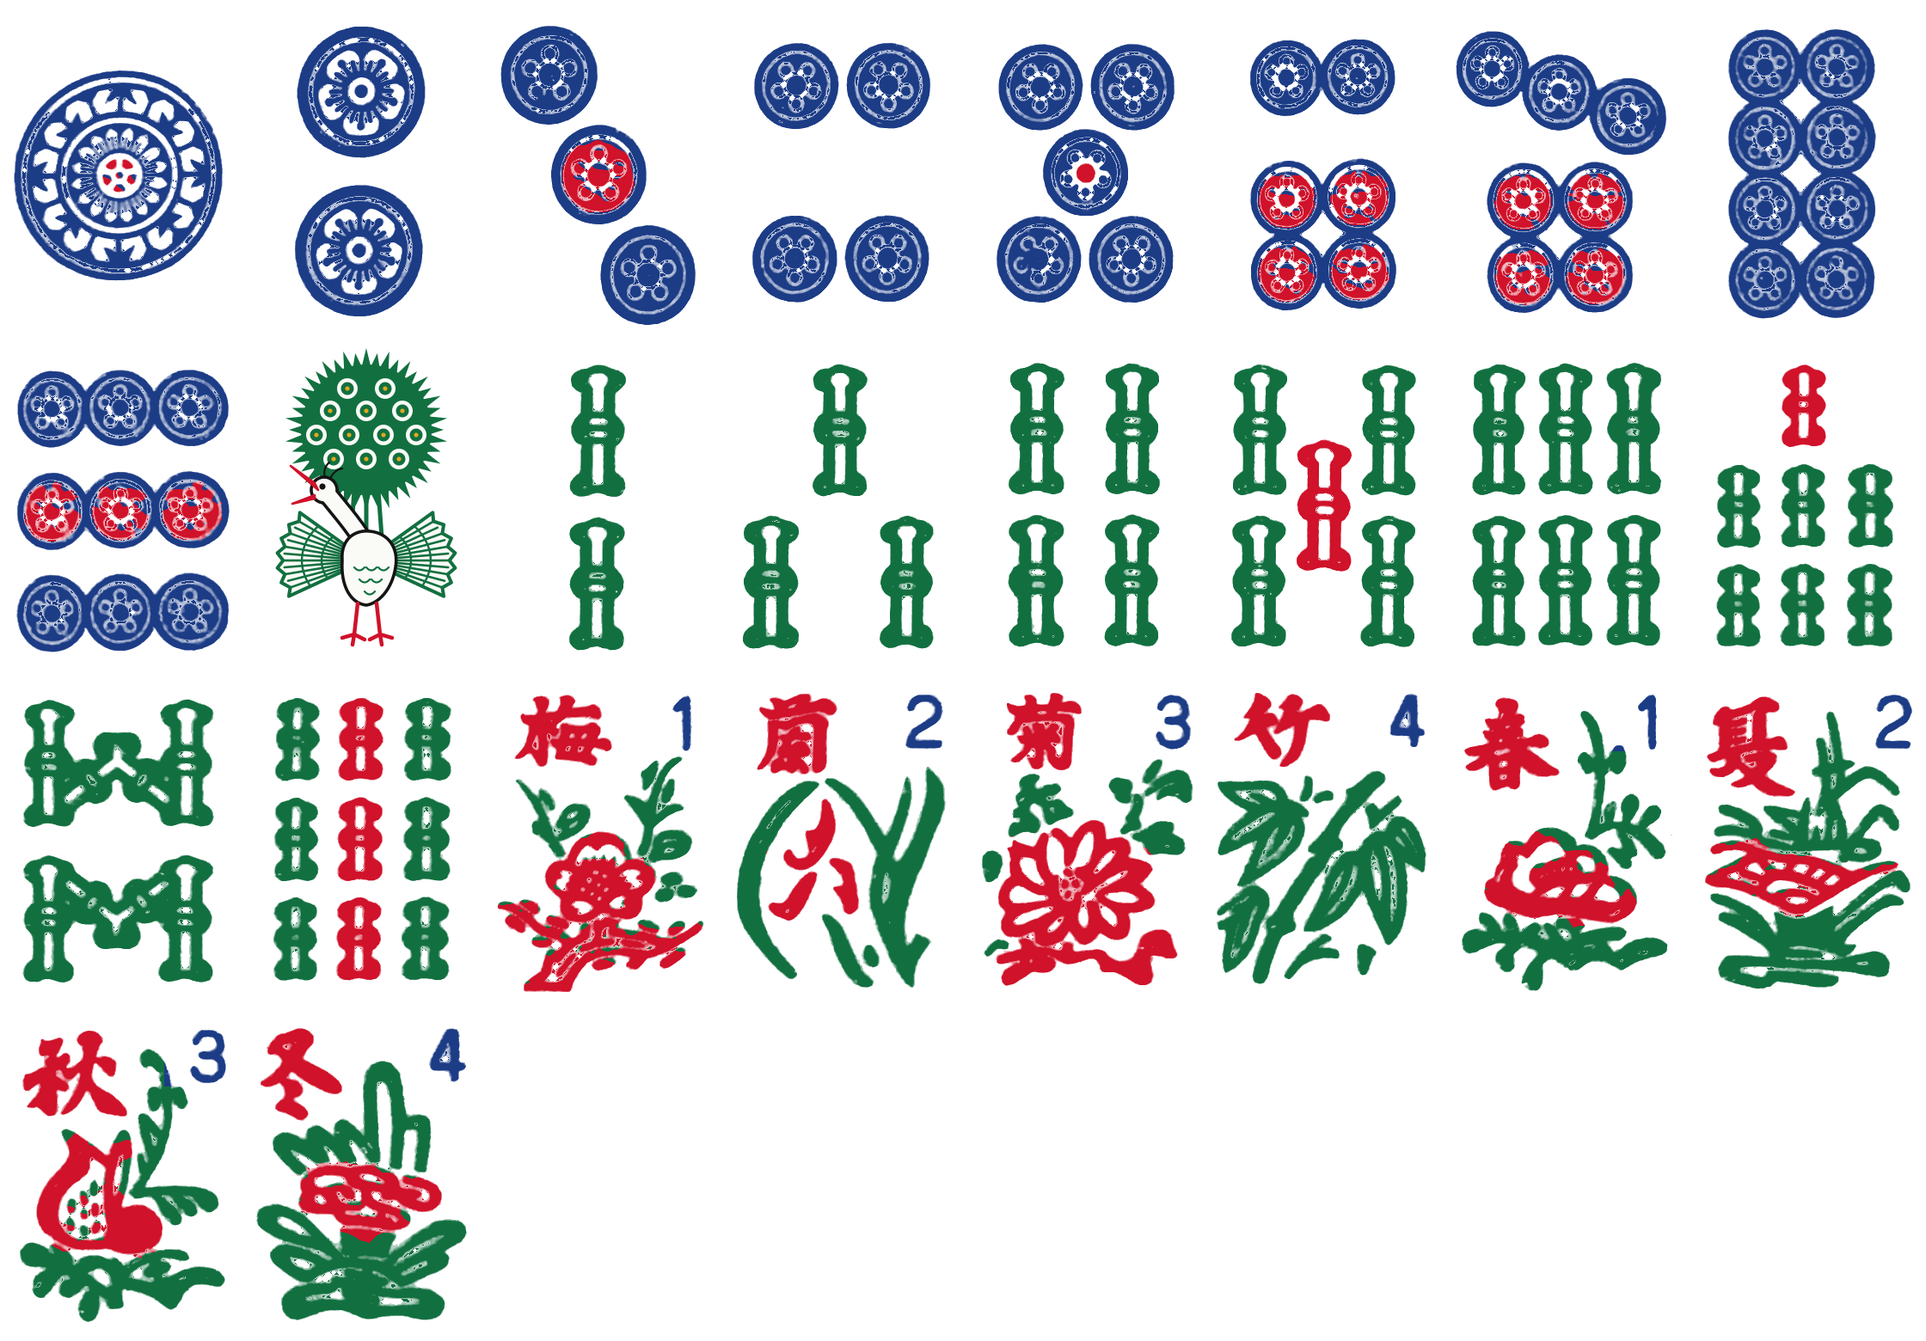
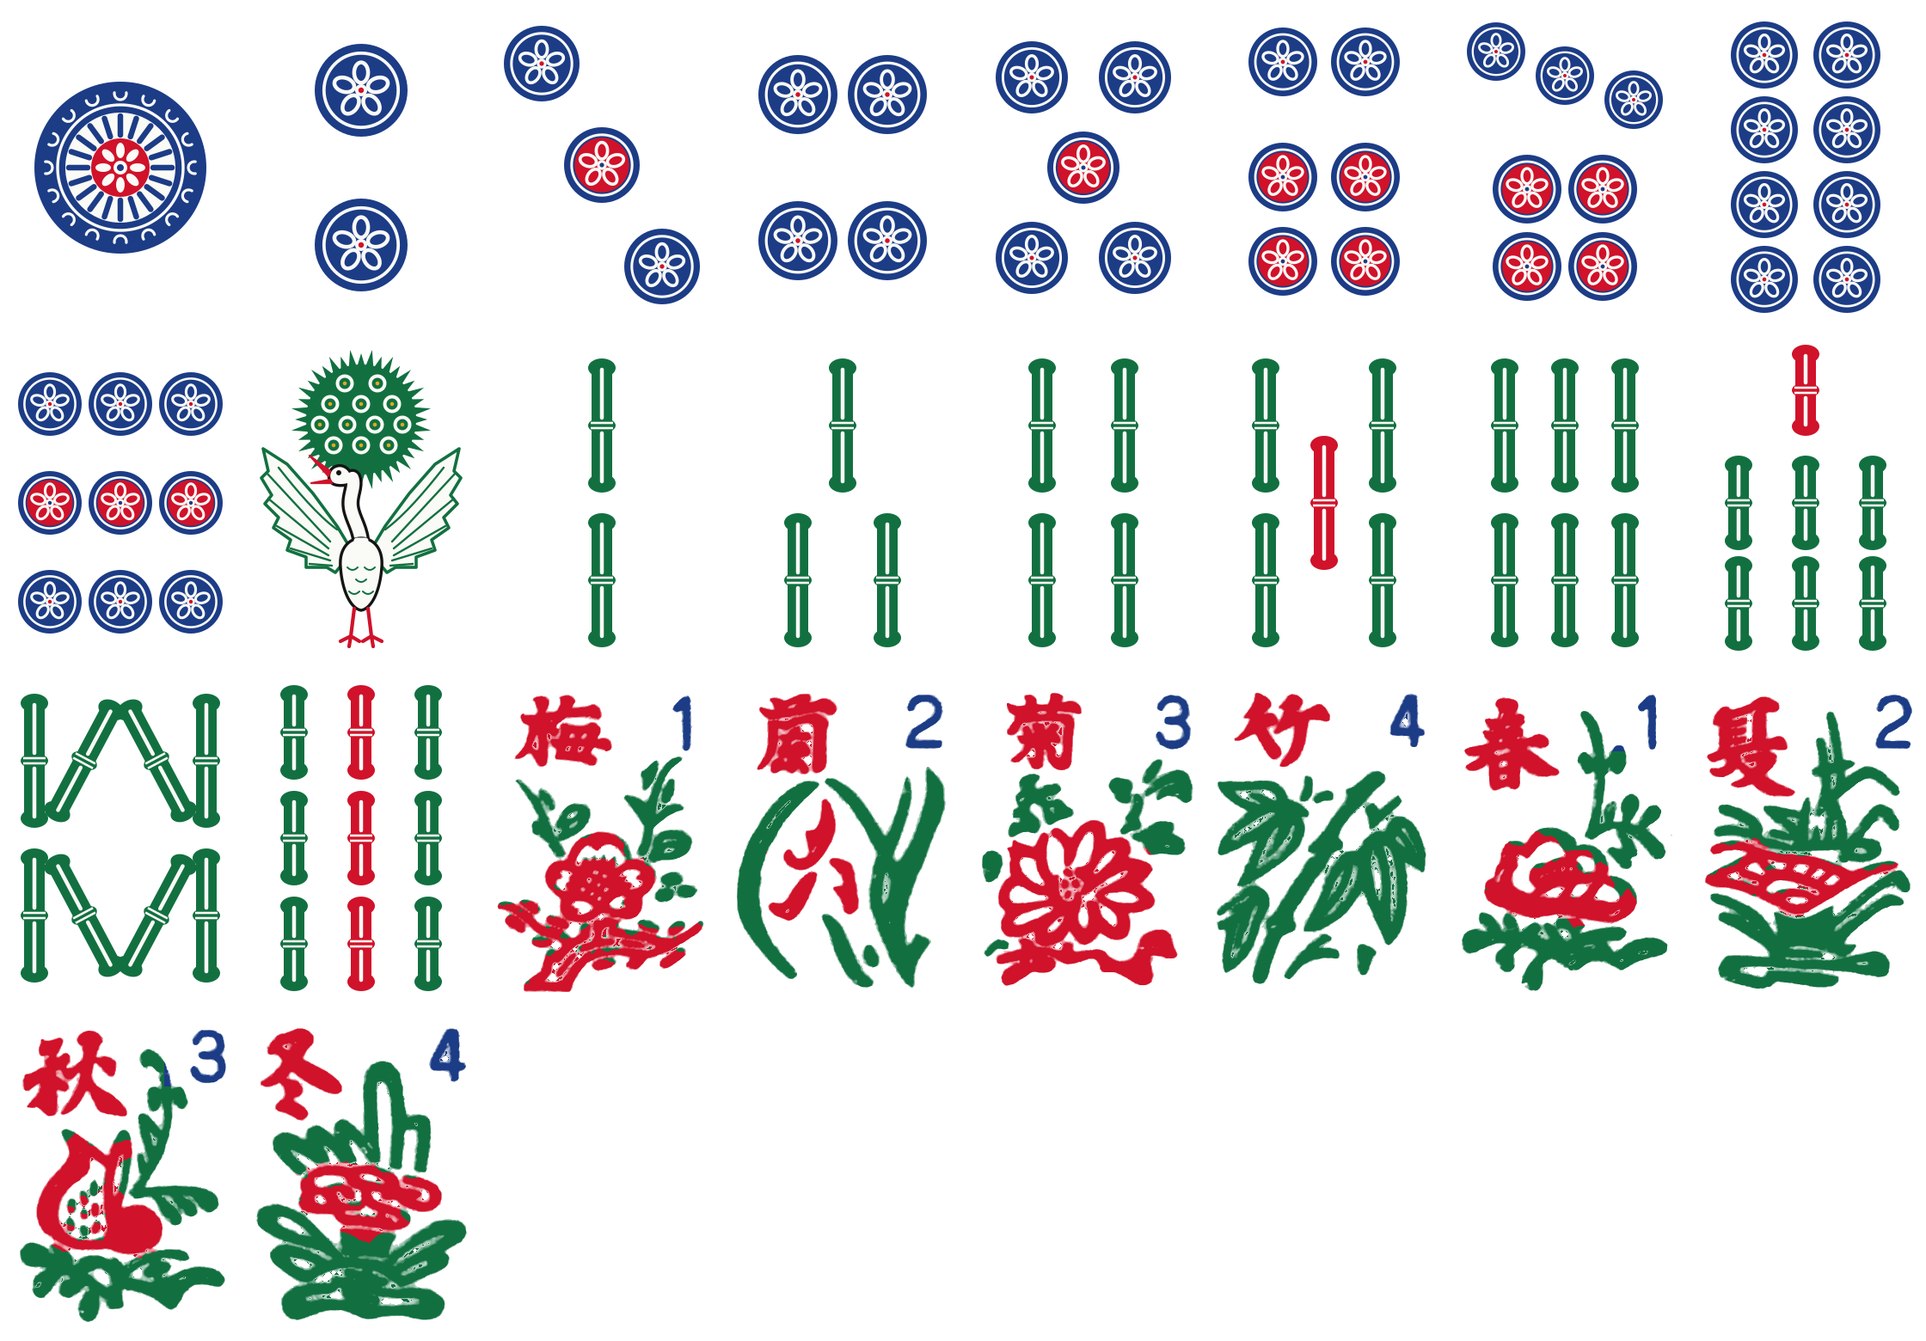
一索を白鳥のような姿勢に、筒子・索子をベクターで清書、麻雀の牌の背の模様をさらに控えめに
Claude-Session: https://claude.ai/code/session_01EiWRAVZja6zGai8iStWuh2

diff --git a/atlas/lazy.js b/atlas/lazy.js
@@ -5,7 +5,7 @@
      AtlasLazy.has3D(id) / hasPlay(id) / hasRules(id) — known before loading; AtlasLazy.loaded(id) */
 (function () {
 'use strict';
-const G = {"reversi": ["games/reversi.js?v=53", "rules/reversi.js?v=14"], "shogi": ["models/shogi.js?v=101", "games/shogi-play.js?v=42", "games/shogi.js?v=16", "rules/shogi.js?v=21"], "chess": ["models/chess.js?v=16", "games/chess.js?v=18", "rules/chess.js?v=7"], "backgammon": ["models/backgammon.js?v=121", "games/backgammon.js?v=23", "rules/backgammon.js?v=11"], "gomoku": ["models/goban.js?v=15", "games/gomoku.js?v=15", "rules/gomoku.js?v=9"], "go": ["models/goban.js?v=15", "games/go.js?v=9", "rules/go.js?v=7"], "hex": ["models/goban.js?v=15", "models/hex.js?v=2", "games/hex.js?v=6", "rules/hex.js?v=6"], "tafl": ["games/tafl.js?v=15", "rules/tafl.js?v=7"], "xiangqi": ["models/xiangqi.js?v=4", "games/xiangqi.js?v=14", "rules/xiangqi.js?v=6"], "janggi": ["models/xiangqi.js?v=4", "models/janggi.js?v=3", "games/janggi.js?v=6", "rules/janggi.js?v=2"], "checkers": ["models/checkers.js?v=17", "games/checkers.js?v=8", "rules/checkers.js?v=4"], "ugolki": ["models/checkers.js?v=17", "models/ugolki.js?v=4", "games/ugolki.js?v=11", "rules/ugolki.js?v=8"], "morris": ["models/morris.js?v=7", "games/morris-pieces.js?v=2", "games/morris.js?v=7", "rules/morris.js?v=5"], "connect4": ["models/connect4.js?v=5", "games/connect4-tiles.js?v=1", "games/connect4.js?v=5", "rules/connect4.js?v=3"], "mancala": ["models/mancala.js?v=5", "games/mancala.js?v=10", "rules/mancala.js?v=4"], "dots": ["models/dots.js?v=4", "games/dots.js?v=9", "rules/dots.js?v=3"], "ur": ["models/ur-dice.js?v=2", "models/ur.js?v=5", "games/ur-kit.js?v=15", "games/ur.js?v=11", "rules/ur.js?v=16"], "fanorona": ["models/fanorona.js?v=4", "games/fanorona.js?v=6", "rules/fanorona.js?v=8"], "konane": ["models/konane.js?v=7", "games/konane.js?v=13", "rules/konane.js?v=5"], "amazons": ["models/amazons.js?v=7", "games/amazons.js?v=10", "rules/amazons.js?v=5"], "senet": ["models/ur-dice.js?v=2", "models/senet.js?v=10", "games/senet-kit.js?v=5", "games/senet.js?v=16", "rules/senet.js?v=8"], "agon": ["models/agon.js?v=4", "games/agon.js?v=12", "rules/agon.js?v=5"], "alquerque": ["models/alquerque.js?v=3", "rules/alquerque.js?v=6"], "ludo": ["../ludo/engine.js?v=3", "../ludo/house.js?v=7", "../ludo/board2d.js?v=7", "../ludo/board-art.js?v=3", "models/ludo.js?v=10", "games/ludo.js?v=28", "rules/ludo.js?v=3"], "carrom": ["../carrom/engine.js?v=7", "models/carrom.js?v=18", "games/carrom.js?v=38", "rules/carrom.js?v=8"], "crokinole": ["../carrom/engine.js?v=7", "games/carrom.js?v=38", "../crokinole/engine.js?v=4", "models/crokinole.js?v=13", "games/crokinole.js?v=15", "rules/crokinole.js?v=4"], "hockey": ["../hockey/engine.js?v=15", "models/hockey.js?v=8", "games/hockey.js?v=30", "rules/hockey.js?v=7"], "shanghai": ["games/shanghai-core.js?v=1", "games/shanghai-i18n.js?v=1", "models/shanghai.js?v=11", "games/shanghai.js?v=2"], "peg": ["../peg/engine.js?v=1", "../peg/i18n.js?v=7", "models/peg.js?v=21", "games/peg.js?v=4", "rules/peg.js?v=4"]};
+const G = {"reversi": ["games/reversi.js?v=53", "rules/reversi.js?v=14"], "shogi": ["models/shogi.js?v=101", "games/shogi-play.js?v=42", "games/shogi.js?v=16", "rules/shogi.js?v=21"], "chess": ["models/chess.js?v=16", "games/chess.js?v=18", "rules/chess.js?v=7"], "backgammon": ["models/backgammon.js?v=121", "games/backgammon.js?v=23", "rules/backgammon.js?v=11"], "gomoku": ["models/goban.js?v=15", "games/gomoku.js?v=15", "rules/gomoku.js?v=9"], "go": ["models/goban.js?v=15", "games/go.js?v=9", "rules/go.js?v=7"], "hex": ["models/goban.js?v=15", "models/hex.js?v=2", "games/hex.js?v=6", "rules/hex.js?v=6"], "tafl": ["games/tafl.js?v=15", "rules/tafl.js?v=7"], "xiangqi": ["models/xiangqi.js?v=4", "games/xiangqi.js?v=14", "rules/xiangqi.js?v=6"], "janggi": ["models/xiangqi.js?v=4", "models/janggi.js?v=3", "games/janggi.js?v=6", "rules/janggi.js?v=2"], "checkers": ["models/checkers.js?v=17", "games/checkers.js?v=8", "rules/checkers.js?v=4"], "ugolki": ["models/checkers.js?v=17", "models/ugolki.js?v=4", "games/ugolki.js?v=11", "rules/ugolki.js?v=8"], "morris": ["models/morris.js?v=7", "games/morris-pieces.js?v=2", "games/morris.js?v=7", "rules/morris.js?v=5"], "connect4": ["models/connect4.js?v=5", "games/connect4-tiles.js?v=1", "games/connect4.js?v=5", "rules/connect4.js?v=3"], "mancala": ["models/mancala.js?v=5", "games/mancala.js?v=10", "rules/mancala.js?v=4"], "dots": ["models/dots.js?v=4", "games/dots.js?v=9", "rules/dots.js?v=3"], "ur": ["models/ur-dice.js?v=2", "models/ur.js?v=5", "games/ur-kit.js?v=15", "games/ur.js?v=11", "rules/ur.js?v=16"], "fanorona": ["models/fanorona.js?v=4", "games/fanorona.js?v=6", "rules/fanorona.js?v=8"], "konane": ["models/konane.js?v=7", "games/konane.js?v=13", "rules/konane.js?v=5"], "amazons": ["models/amazons.js?v=7", "games/amazons.js?v=10", "rules/amazons.js?v=5"], "senet": ["models/ur-dice.js?v=2", "models/senet.js?v=10", "games/senet-kit.js?v=5", "games/senet.js?v=16", "rules/senet.js?v=8"], "agon": ["models/agon.js?v=4", "games/agon.js?v=12", "rules/agon.js?v=5"], "alquerque": ["models/alquerque.js?v=3", "rules/alquerque.js?v=6"], "ludo": ["../ludo/engine.js?v=3", "../ludo/house.js?v=7", "../ludo/board2d.js?v=7", "../ludo/board-art.js?v=3", "models/ludo.js?v=10", "games/ludo.js?v=28", "rules/ludo.js?v=3"], "carrom": ["../carrom/engine.js?v=7", "models/carrom.js?v=18", "games/carrom.js?v=38", "rules/carrom.js?v=8"], "crokinole": ["../carrom/engine.js?v=7", "games/carrom.js?v=38", "../crokinole/engine.js?v=4", "models/crokinole.js?v=13", "games/crokinole.js?v=15", "rules/crokinole.js?v=4"], "hockey": ["../hockey/engine.js?v=15", "models/hockey.js?v=8", "games/hockey.js?v=30", "rules/hockey.js?v=7"], "shanghai": ["games/shanghai-core.js?v=1", "games/shanghai-i18n.js?v=1", "models/shanghai.js?v=12", "games/shanghai.js?v=2"], "peg": ["../peg/engine.js?v=1", "../peg/i18n.js?v=7", "models/peg.js?v=21", "games/peg.js?v=4", "rules/peg.js?v=4"]};
 const F = {"reversi": {"t3": true, "play": true, "rules": true}, "shogi": {"t3": true, "play": true, "rules": true}, "chess": {"t3": true, "play": true, "rules": true}, "backgammon": {"t3": true, "play": true, "rules": true}, "gomoku": {"t3": true, "play": true, "rules": true}, "go": {"t3": true, "play": true, "rules": true}, "hex": {"t3": true, "play": true, "rules": true}, "tafl": {"t3": true, "play": true, "rules": true}, "xiangqi": {"t3": true, "play": true, "rules": true}, "janggi": {"t3": true, "play": true, "rules": true}, "checkers": {"t3": true, "play": true, "rules": true}, "ugolki": {"t3": true, "play": true, "rules": true}, "morris": {"t3": true, "play": true, "rules": true}, "connect4": {"t3": true, "play": true, "rules": true}, "mancala": {"t3": true, "play": true, "rules": true}, "dots": {"t3": true, "play": true, "rules": true}, "ur": {"t3": true, "play": true, "rules": true}, "fanorona": {"t3": true, "play": true, "rules": true}, "konane": {"t3": true, "play": true, "rules": true}, "amazons": {"t3": true, "play": true, "rules": true}, "senet": {"t3": true, "play": true, "rules": true}, "agon": {"t3": true, "play": true, "rules": true}, "alquerque": {"t3": true, "play": false, "rules": true}, "ludo": {"t3": true, "play": true, "rules": true}, "carrom": {"t3": true, "play": true, "rules": true}, "crokinole": {"t3": true, "play": true, "rules": true}, "hockey": {"t3": true, "play": true, "rules": true}, "peg": {"t3": true, "play": true, "rules": true}, "shanghai": {"t3": true, "play": true, "rules": false}};
 const done = new Set(), loading = new Map(), ok = new Set();
 function load(src) {

diff --git a/mahjong/table3d.js b/mahjong/table3d.js
@@ -11,11 +11,10 @@ function stoneTex() {
   let seed = 7; const R = () => (seed = (seed * 16807) % 2147483647) / 2147483647;
   const base = g.createLinearGradient(0, 0, S, S); base.addColorStop(0, '#5f3a8c'); base.addColorStop(.5, '#55337f'); base.addColorStop(1, '#5c3889');   // (a deep 袱紗 purple, ユーザー 2026-11-14)
   g.fillStyle = base; g.fillRect(0, 0, S, S);
-  for (let i = 0; i < 26; i++) { const x = R() * S, y = R() * S, r = 40 + R() * 140, gr = g.createRadialGradient(x, y, 0, x, y, r), light = R() < .5;
-    gr.addColorStop(0, light ? 'rgba(180,150,220,.10)' : 'rgba(40,20,70,.10)'); gr.addColorStop(1, 'rgba(0,0,0,0)'); g.fillStyle = gr; g.fillRect(0, 0, S, S); }
+  // (no clouds: ユーザー「模様はもっと目立たなくていい」— only the faintest veins and grain)
   const vein = (col, w, blur, n) => { g.save(); g.strokeStyle = col; g.lineWidth = w; g.shadowColor = col; g.shadowBlur = blur; g.lineCap = 'round';
     for (let k = 0; k < n; k++) { let x = R() * S, y = R() * S, a = R() * 6.28; g.beginPath(); g.moveTo(x, y); for (let i = 0; i < 18; i++) { a += (R() - .5) * .9; x += Math.cos(a) * 26; y += Math.sin(a) * 26; g.lineTo(x, y); } g.stroke(); } g.restore(); };
-  vein('rgba(200,180,235,.14)', 2, 10, 4); vein('rgba(220,205,245,.18)', .7, 2, 5);   // (only a hint of stone: ユーザー「素材感強すぎ」)
+  vein('rgba(200,180,235,.06)', 2, 10, 3); vein('rgba(220,205,245,.08)', .7, 2, 3);   // (only a hint of stone: ユーザー「素材感強すぎ」)
   for (let i = 0; i < 300; i++) { g.fillStyle = `rgba(255,255,255,${.04 + R() * .1})`; g.fillRect(R() * S, R() * S, 1, 1); }
   const t = new THREE.CanvasTexture(c); t.encoding = THREE.sRGBEncoding; t.wrapS = t.wrapT = THREE.RepeatWrapping; t.anisotropy = 4; return t;
 }
@@ -176,7 +175,7 @@ class Table3D {
     // (a clear coat over it, a little studio light reflected in it) — four cuts of the same slab so neighbours don't match
     this.envTex = studioEnv();
     const stone = stoneTex();
-    this.matBacks = [0, 1, 2, 3].map(k => { const t = stone.clone(); t.needsUpdate = true; t.offset.set(k * .27, k * .41); t.rotation = k * .9; t.center.set(.5, .5);
+    this.matBacks = [0, 1, 2, 3].map(k => { const t = stone.clone(); t.needsUpdate = true; t.offset.set(k * .27, k * .41);
       return new THREE.MeshPhysicalMaterial({ map: t, roughness: .3, metalness: 0, clearcoat: .6, clearcoatRoughness: .14, envMap: this.envTex, envMapIntensity: .45 }); });
     this.matBack = this.matBacks[0];
     this.matHi = new THREE.MeshStandardMaterial({ color: 0xfff1b8, roughness: .35, emissive: 0x6a5208, emissiveIntensity: .45 });

diff --git a/atlas/models/shanghai.js b/atlas/models/shanghai.js
@@ -93,7 +93,7 @@
   }
   // 筒子・索子・花／季節: the pictures traced in colour from the same photos (atlas/tools/shanghai-glyphs.py art →
   // atlas/img/shanghai-art.png, 8×4 RGBA cells: 0–8 筒子, 9–17 索子 (9 = 一索の鳥), 18–21 梅蘭菊竹, 22–25 春夏秋冬), 2026-11-14
-  const ART_URL = new URL('../img/shanghai-art.png?v=6', (document.currentScript && document.currentScript.src) || location.href).href;
+  const ART_URL = new URL('../img/shanghai-art.png?v=7', (document.currentScript && document.currentScript.src) || location.href).href;
   let artImg = null;
   const artCell = f => f >= 9 && f < 27 ? f - 9 : f >= 34 && f < 42 ? 18 + (f - 34) : -1;
   function art(c, f) { const k = artCell(f); if (!artImg || k < 0) return false; c.drawImage(artImg, (k % 8) * GW, Math.floor(k / 8) * GH, GW, GH, 0, 0, 256, 362); return true; }

diff --git a/mahjong/tiles.js b/mahjong/tiles.js
@@ -111,7 +111,7 @@ const GW = 280, GH = 390, SHEET = new URL('../atlas/img/', (document.currentScri
 let gImg = null, aImg = null, readyP = null;
 function ready() {
   const one = (u, set) => new Promise(res => { const im = new Image(); im.onload = () => { set(im); res(); }; im.onerror = () => res(); im.src = SHEET + u; setTimeout(res, 5000); });
-  return readyP || (readyP = Promise.all([one('shanghai-glyphs.png?v=1', im => { gImg = im; }), one('shanghai-art.png?v=6', im => { aImg = im; })]));
+  return readyP || (readyP = Promise.all([one('shanghai-glyphs.png?v=1', im => { gImg = im; }), one('shanghai-art.png?v=7', im => { aImg = im; })]));
 }
 const GROUND = '#fafaf6';
 // one cell of a sheet in a colour (glyph sheet: channel ch; art sheet: ch < 0 keeps its colours, or recolours all to `col`)

diff --git a/mahjong/index.html b/mahjong/index.html
@@ -110,10 +110,10 @@ else document.write('<script src="../atlas/vendor/three-r186.min.js?v=1"><\/scri
 <script src="skills.js?v=8"></script>
 <script src="game.js?v=7"></script>
 <script src="ai.js?v=6"></script>
-<script src="tiles.js?v=7"></script>
+<script src="tiles.js?v=8"></script>
 <script src="chars.js?v=3"></script>
 <script src="img/tex/baked.js?v=2"></script>
-<script src="table3d.js?v=17"></script>
+<script src="table3d.js?v=18"></script>
 <script src="framefx.js?v=12"></script>
 <script src="../shared/record.js?v=16"></script>
 <script src="app.js?v=28"></script>

diff --git a/atlas/index.html b/atlas/index.html
@@ -2260,7 +2260,7 @@ window.AtlasRgdTimer = function (btn, ms, alive) {
   }, 60);
 };</script>
 <script src="../shared/tapword.js?v=1"></script>
-<script src="lazy.js?v=209"></script>
+<script src="lazy.js?v=210"></script>
 <script src="puzzle-lines.js?v=1"></script>
 <script src="puzzles.js?v=26"></script>
 <script src="lessons3d.js?v=21"></script>

diff --git a/atlas/tools/shanghai-glyphs.py b/atlas/tools/shanghai-glyphs.py
@@ -122,13 +122,17 @@ def art(src, out):
             if k <= 8: lab[inkm & (lab != 1)] = 3
         p = paint(C(c, r), force)
         y, x = divmod(k, 8); sheet[y * GH:(y + 1) * GH, x * GW:(x + 1) * GW] = p
-    # 一索 (cell 9): our own design — a sparrow on bamboo (atlas/tools/shanghai-bird.svg, rendered with rsvg-convert), not the
-    # photo's peacock (ユーザー 2026-11-14：写真そのままの孔雀なので独自の解釈を)
+    # 筒子 (cells 0–8) and 一索 (cell 9): drawn clean as vectors (atlas/tools/shanghai-svg/pin1–9.svg, bird.svg; rendered with
+    # rsvg-convert) — the photo's circles came out smeared, and 一索 is our own drawing of the classic layout (2026-11-14)
     import os, subprocess, io
-    svg = os.path.join(os.path.dirname(os.path.abspath(__file__)), 'shanghai-bird.svg')
-    png = subprocess.run(['rsvg-convert', '-w', str(GW), '-h', str(GH), svg], capture_output=True, check=True).stdout
-    b = np.array(Image.open(io.BytesIO(png)).convert('RGBA')).astype(float); b[:, :, 3] /= 255
-    sheet[GH:2 * GH, GW:2 * GW] = b
+    here = os.path.join(os.path.dirname(os.path.abspath(__file__)), 'shanghai-svg')
+    def vec(name, k):
+        png = subprocess.run(['rsvg-convert', '-w', str(GW), '-h', str(GH), os.path.join(here, name)], capture_output=True, check=True).stdout
+        b = np.array(Image.open(io.BytesIO(png)).convert('RGBA')).astype(float); b[:, :, 3] /= 255
+        y, x = divmod(k, 8); sheet[y * GH:(y + 1) * GH, x * GW:(x + 1) * GW] = b
+    for n in range(1, 10): vec('pin%d.svg' % n, n - 1)
+    vec('bird.svg', 9)
+    for n in range(2, 10): vec('sou%d.svg' % n, 8 + n)   # 索子 too (cells 10–17)
     s = sheet.copy(); s[:, :, 3] *= 255
     Image.fromarray(s.astype('uint8'), 'RGBA').save(out, optimize=True)
 

diff --git a/claude/mahjong-spec.md b/claude/mahjong-spec.md
@@ -87,4 +87,4 @@
 ## 牌の見た目（2026-11-14）
 - 牌の絵と文字は上海（大百科）と共通：日本式の実物の牌の写真からなぞったシート（`atlas/img/shanghai-glyphs.png`・`shanghai-art.png`、`atlas/tools/shanghai-glyphs.py`）を `tiles.js` が読み込んで描く（`MJTiles.ready()`、読み込めないときは以前の描画）。赤ドラは全部を赤に塗り替え。地は白 #fafaf6。
 - 3Dの牌（`table3d.js` roundTile）：角と縁を丸めた白い本体＋紫の背（ユーザー指定：裏面は紫）。面は彫り（`MJTiles.normal`：塗りは平ら、文字のすぐ外の白い縁が溝へ落ちる法線マップ、墨入れなし）。
-- 牌の背（2026-11-14）：濃い袱紗の紫に、ごく控えめな石目とつや（ユーザー：素材感は薄く、紫は濃く）。最初は淡いラベンダーの磨いた石（キャンバスの石目＋クリアコート＋小さなスタジオの映り込み、隣と模様がそろわないよう4通りの切り出し）。2D表示の牌の背と側面も同じ色味に。
+- 牌の背（2026-11-14）：濃い袱紗の紫に、ごく控えめな石目とつや（ユーザー：素材感は薄く、紫は濃く、模様はもっと目立たなく＝雲状の濃淡はなし、筋はかすか）。最初は淡いラベンダーの磨いた石（キャンバスの石目＋クリアコート＋小さなスタジオの映り込み、隣と模様がそろわないよう4通りの切り出し）。2D表示の牌の背と側面も同じ色味に。

diff --git a/claude/shanghai-spec.md b/claude/shanghai-spec.md
@@ -37,4 +37,5 @@
 
 ## まだのこと
 - 3Dルールコース（キャラ進行）、ヒストリア、背の色・マットの選択UI、スマホで大きな配置を拡大・移動して遊ぶ操作。
-- 一索（2026-11-14）：日本の牌の定番の構図を守って独自に描き起こす（`atlas/tools/shanghai-bird.svg`）。ユーザー指示「定番の型を崩さない」：上に丸くこんもり広げた尾羽（緑・とげとげの縁・白い輪の目玉模様）、下に正面から見た孔雀が左右に翼を広げ、首を上げて口を開けている、赤い脚。牌の塗りの色の平塗り。shanghai-glyphs.py art がセル9に描き込む。麻雀（mahjong/）も共通。
+- 一索（2026-11-14）：日本の牌の定番の構図を守って独自に描き起こす（`atlas/tools/shanghai-svg/bird.svg`）。ユーザー指示「定番の型を崩さない」：上に丸くこんもり広げた尾羽（緑・とげとげの縁・白い輪の目玉模様）、下に白鳥をシンプルにしたような姿の孔雀を正面から＝S字に上げた首・口を開けた頭・左右に高く持ち上げた翼・赤い脚。
+- 筒子・索子（2026-11-14）：写真からの抜き出しは模様が潰れるので、ベクターで清書（`atlas/tools/shanghai-svg/pin1〜9.svg`・`sou2〜9.svg`、配置は日本の牌の定番）。shanghai-glyphs.py art が rsvg-convert でシートに描き込む。花／季節は写真からの抜き出しのまま。
